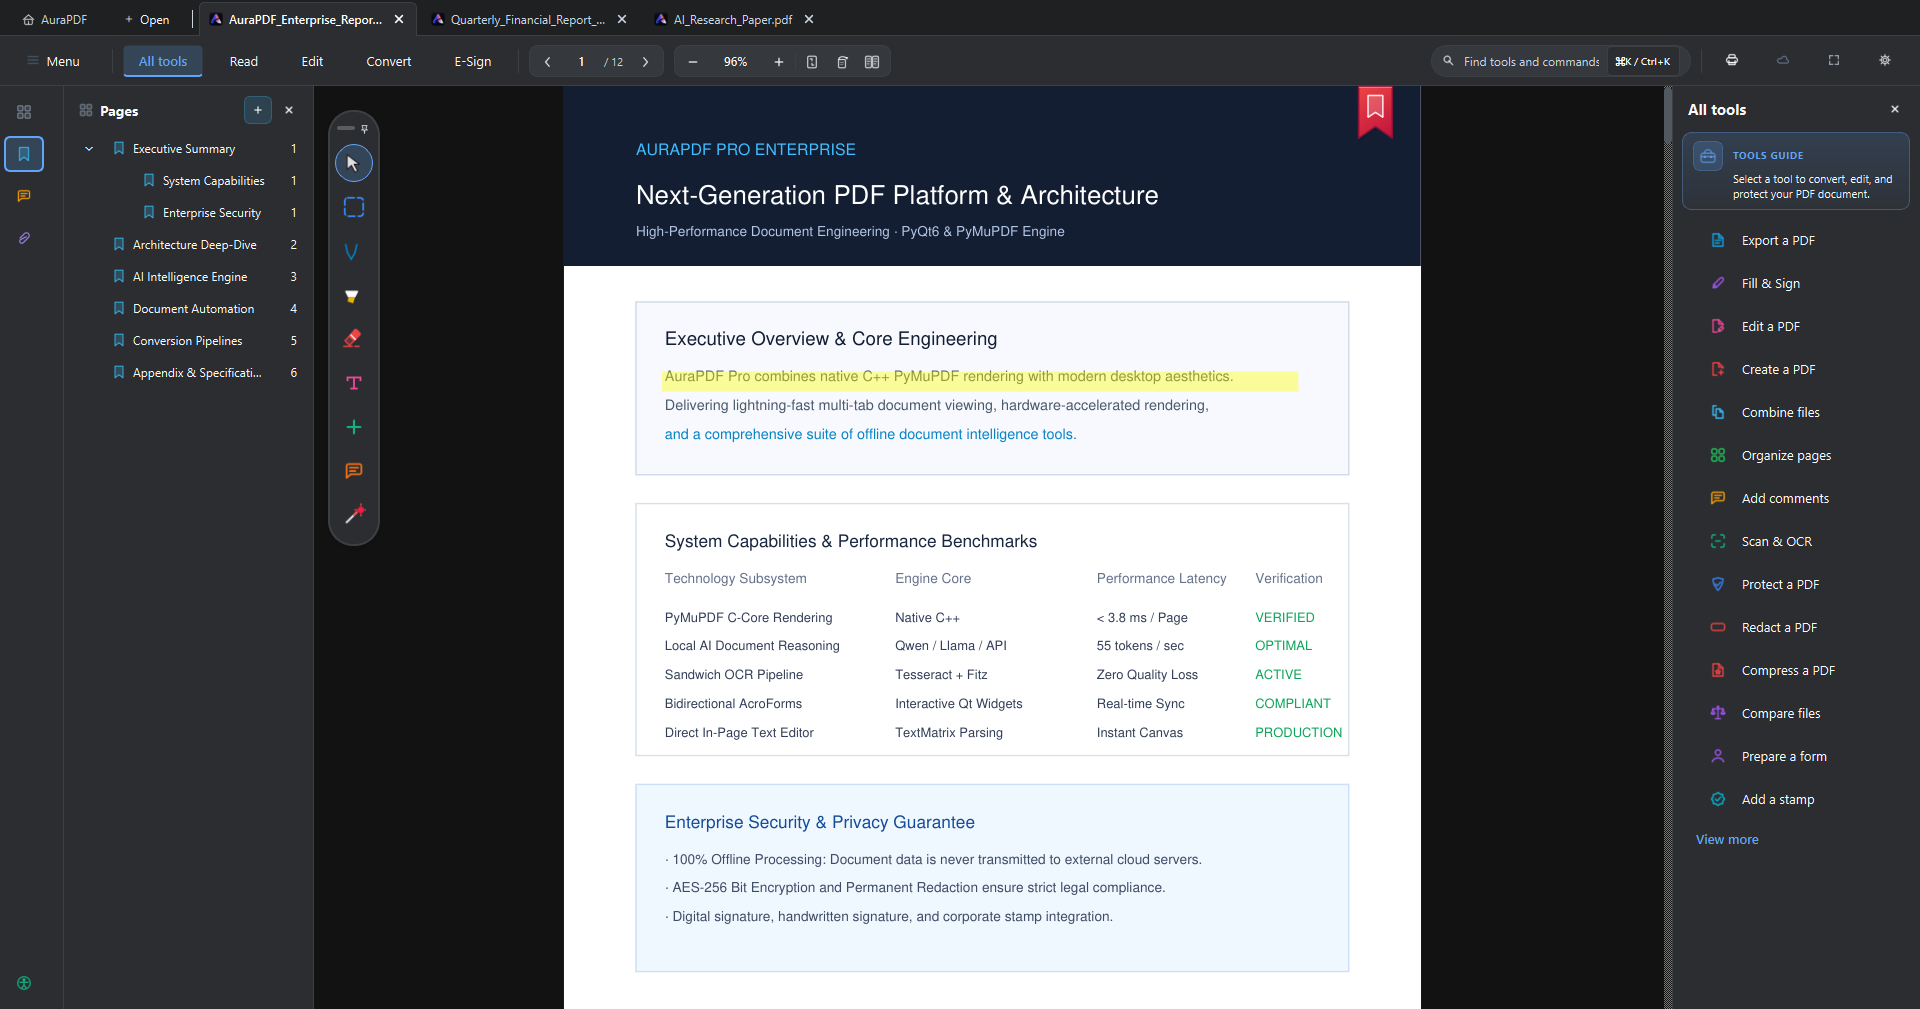
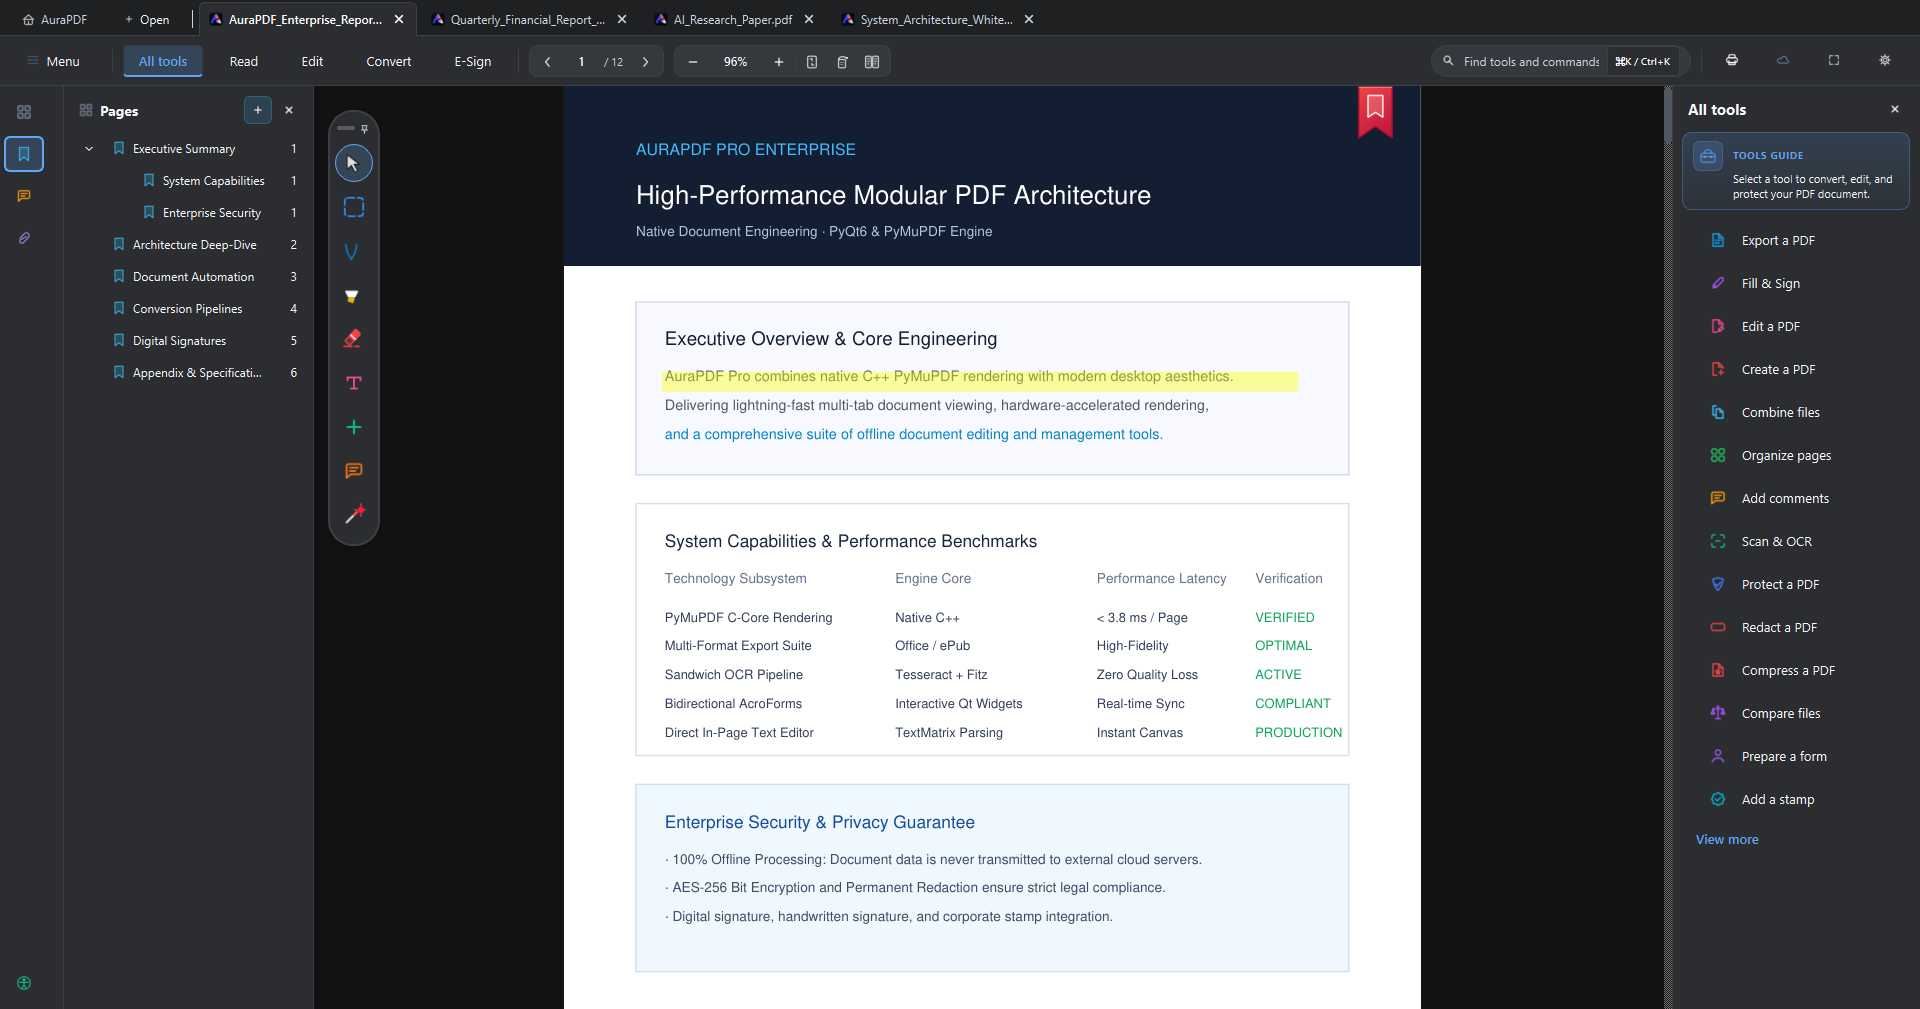
docs(readme): remove ai references, align features with current app, and update english screenshots

diff --git a/README.md b/README.md
@@ -5,8 +5,8 @@
 <h1 align="center">AuraPDF Pro</h1>
 
 <p align="center">
-  <strong>Advanced, High-Performance, and Offline AI-Powered Desktop PDF Platform</strong><br>
-  Built on Python 3, PyQt6, and the native C++ PyMuPDF engine. Designed for mission-critical PDF reading, in-place content editing, visual page organization, and local document intelligence.
+  <strong>High-Performance Desktop PDF Platform</strong><br>
+  Engineered with Python 3, PyQt6, and the native C++ PyMuPDF rendering engine. Designed for high-speed document viewing, direct in-page text editing, visual page organization, digital signatures, AcroForms, and format conversion.
 </p>
 
 <p align="center">
@@ -34,9 +34,8 @@
   - [3. Visual Page Organization & Manipulation](#3-visual-page-organization--manipulation)
   - [4. Comprehensive Conversion & PDF Toolbox](#4-comprehensive-conversion--pdf-toolbox)
   - [5. Direct In-Page Content Editing & Annotations](#5-direct-in-page-content-editing--annotations)
-  - [6. Aura AI - Offline Document Intelligence](#6-aura-ai---offline-document-intelligence)
-  - [7. Digital Signatures, Stamps, and AcroForms](#7-digital-signatures-stamps-and-acroforms)
-  - [8. Modern Theme Engine & High-DPI Aesthetics](#8-modern-theme-engine--high-dpi-aesthetics)
+  - [6. Digital Signatures, Stamps, and AcroForms](#6-digital-signatures-stamps-and-acroforms)
+  - [7. Modern Theme Engine & High-DPI Aesthetics](#7-modern-theme-engine--high-dpi-aesthetics)
 - [System Requirements](#system-requirements)
 - [Installation & Getting Started](#installation--getting-started)
 - [Building the Windows Installer (.exe)](#building-the-windows-installer-exe)
@@ -49,9 +48,9 @@
 
 ## Overview
 
-**AuraPDF Pro** is a modern desktop PDF workstation engineered to meet both everyday productivity demands and enterprise document workflows.
+**AuraPDF Pro** is a modern desktop PDF workstation built to deliver high performance, offline privacy, and an Adobe Acrobat-grade feature set.
 
-By combining the native C++ rasterization performance of PyMuPDF with PyQt6's responsive graphics architecture, AuraPDF Pro provides fluid 60+ FPS navigation across multi-thousand-page documents, near-zero memory overhead, 100% offline document analysis, in-place text editing, searchable sandwich OCR, and a comprehensive suite of Adobe Acrobat-class utility tools.
+By utilizing PyMuPDF's low-level C++ rendering pipeline combined with PyQt6's responsive UI architecture, AuraPDF Pro provides smooth 60+ FPS navigation across large documents, minimal memory usage, in-place content editing, searchable sandwich OCR, interactive form filling, and a comprehensive suite of page management and conversion tools.
 
 ---
 
@@ -63,13 +62,13 @@ By combining the native C++ rasterization performance of PyMuPDF with PyQt6's re
   <img src="docs/screenshots/01_hero_reader_dark.png" alt="AuraPDF Pro Reading Experience" width="94%" style="border-radius: 8px;" />
 </p>
 
-* **Multi-Tab Architecture:** Manage multiple PDF files simultaneously in detachable, draggable, and restorable tabs (`Ctrl+W`, `Ctrl+Shift+T`).
-* **Hierarchical Table of Contents (TOC):** Expandable tree navigation allowing instantaneous jumping between chapters, sections, and nested headings.
-* **Floating Quick Tools Capsule:** Context-aware, draggable floating tool palette placed beside your cursor for quick highlighter, pen, eraser, and annotation selection.
+* **Multi-Tab Architecture:** Manage multiple PDF documents simultaneously in detached, draggable, and restorable tabs (`Ctrl+W`, `Ctrl+Shift+T`).
+* **Hierarchical Table of Contents (TOC):** Interactive tree navigation enabling instant jumping between document sections and nested headings.
+* **Floating Quick Tools Capsule:** Context-aware, draggable floating tool palette positioned beside your cursor for quick highlighter, pen, eraser, and annotation selection.
 * **Reading & Color Modes:**
   * **Day Mode:** Native, color-accurate PDF rendering.
-  * **Hardware-Accelerated Dark Mode:** Low-light inverted C-level palette preserving vector crispness while minimizing eye strain.
-  * **Book (Sepia) Mode:** Warm paper hue tailored for extended reading sessions.
+  * **Hardware-Accelerated Dark Mode:** Inverted palette preserving vector clarity while minimizing eye fatigue.
+  * **Book (Sepia) Mode:** Warm paper hue designed for extended reading sessions.
 * **Smart Navigation:** Fit-to-width (`Ctrl+2`), fit-to-height (`Ctrl+0`), smooth fractional zoom (`Ctrl++` / `Ctrl+-`), and browser-style view history (`Alt+Left Arrow`, `Alt+Right Arrow`).
 
 ---
@@ -80,10 +79,10 @@ By combining the native C++ rasterization performance of PyMuPDF with PyQt6's re
   <img src="docs/screenshots/02_home_dashboard.png" alt="AuraPDF Pro Home Dashboard" width="94%" style="border-radius: 8px;" />
 </p>
 
-* **Instant Document Starters:** Launch fresh canvas files with one click, including *Blank Document*, *Lined Notes*, *Grid Paper*, *Cornell Notes*, and *Dot Grid*.
-* **Enriched Recent Files Hub:** Track recent files with real-time metadata including page count, file size, last modified timestamp, and path.
-* **Favorites System:** Pin frequently referenced documents for instant single-click access.
-* **Quick Action Tiles:** Direct access to Organize Pages, Annotate, Prepare Form, Edit Content, and Secure PDF.
+* **Document Starter Hub:** Launch new document canvases with one click, including *Blank Document*, *Lined Notes*, *Grid Paper*, *Cornell Notes*, and *Dot Grid*.
+* **Enriched Recent Files:** Track recent files with real-time metadata including page count, file size, last modified timestamp, and location.
+* **Favorites System:** Pin frequently referenced documents for immediate single-click access.
+* **Quick Action Tiles:** Direct access to Organize Pages, Annotate, Prepare Form, Edit Content, and Protect PDF.
 
 ---
 
@@ -93,13 +92,13 @@ By combining the native C++ rasterization performance of PyMuPDF with PyQt6's re
   <img src="docs/screenshots/03_organize_pages.png" alt="AuraPDF Pro Page Organizer" width="94%" style="border-radius: 8px;" />
 </p>
 
-* **Full-Screen Grid View:** High-resolution page thumbnail grid rendering entire documents simultaneously.
-* **Drag-and-Drop Reordering:** Reorganize page sequences dynamically with visual drop indicators.
+* **Full-Screen Grid View:** High-resolution page thumbnail grid displaying entire documents at a glance.
+* **Drag-and-Drop Reordering:** Rearrange page order dynamically with intuitive visual drop indicators.
 * **Comprehensive Page Actions:**
   * Rotate clockwise / counter-clockwise (90° CW / CCW).
   * Bulk selection and deletion of unwanted pages.
   * Extract selected pages into standalone PDF documents.
-  * Insert external PDF files or blank pages anywhere in the sequence.
+  * Insert external PDF files or blank pages into any position.
   * Duplicate selected pages.
 
 ---
@@ -117,8 +116,8 @@ By combining the native C++ rasterization performance of PyMuPDF with PyQt6's re
   * **E-Book (`.epub`):** Reflowable format conversion optimized for e-readers.
   * **Image Export (`.png`, `.jpg`):** Export full pages or batch-extract embedded graphics.
   * **Web & Text:** HTML web pages, Rich Text Format (`.rtf`), Plain Text (`.txt`), and PostScript (`.eps`).
-* **PDF Merge & Split:** Combine dozens of distinct files into one organized document or split by customized page ranges.
-* **Sandwich OCR Engine:** Generate an invisible, coordinate-aligned searchable text layer behind scanned documents without degrading original visual fidelity.
+* **PDF Merge & Split:** Combine multiple distinct files into one organized document or split by customized page ranges.
+* **Sandwich OCR Engine:** Generate an invisible, coordinate-aligned searchable text layer behind scanned documents without degrading original visual quality.
 * **PDF Compression:** Optimize image DPI and strip duplicate streams to reduce file sizes by up to 80%.
 
 ---
@@ -129,29 +128,15 @@ By combining the native C++ rasterization performance of PyMuPDF with PyQt6's re
   <img src="docs/screenshots/05_direct_edit_mode.png" alt="AuraPDF Pro Direct Text Editor" width="94%" style="border-radius: 8px;" />
 </p>
 
-* **In-Place Text Editor:** Click directly into existing PDF text blocks to edit words, sentences, typography, font sizes, and text alignments on the canvas.
+* **In-Place Text Editor:** Click directly into existing PDF text blocks to edit words, sentences, typography, font sizes, and alignments on the canvas.
 * **Standard PDF Markups:** Highlight, underline, strikeout, and wavy line annotations.
 * **Vector Drawing Tools:** Pressure-sensitive pen, freehand highlighter, arrows, lines, rectangles, and ellipses.
 * **Comments & Sticky Notes:** Interactive callout boxes, searchable annotations list, and threaded replies.
-* **Permanent Redaction:** Irreversibly black out confidential data, IDs, credit cards, or sensitive legal clauses directly from the underlying PDF stream.
+* **Permanent Redaction:** Irreversibly black out confidential data, IDs, credit cards, or sensitive clauses directly from the underlying PDF stream.
 
 ---
 
-### 6. Aura AI - Offline Document Intelligence
-
-<p align="center">
-  <img src="docs/screenshots/06_ai_assistant.png" alt="Aura AI Document Assistant" width="88%" style="border-radius: 8px;" />
-</p>
-
-* **100% Offline & Private:** Documents are analyzed strictly locally on your machine. Confidential corporate and legal data is never transmitted to external cloud servers.
-* **Executive Summaries:** Ingest hundreds of pages in seconds to produce structural overviews, key findings, and section breakdowns.
-* **Risk & Obligation Detection:** Detect binding clauses, penal liabilities, deadlines, financial commitments, and compliance flags.
-* **Interactive Document Q&A:** Chat directly with your document in natural language and receive answers with precise page references.
-* **Optional Cloud API Integration:** Seamlessly connect Google Gemini or OpenAI API keys when advanced multi-modal reasoning is desired.
-
----
-
-### 7. Digital Signatures, Stamps, and AcroForms
+### 6. Digital Signatures, Stamps, and AcroForms
 
 * **Signature Suite:**
   * Draw signatures with mouse or stylus.
@@ -162,7 +147,7 @@ By combining the native C++ rasterization performance of PyMuPDF with PyQt6's re
 
 ---
 
-### 8. Modern Theme Engine & High-DPI Aesthetics
+### 7. Modern Theme Engine & High-DPI Aesthetics
 
 AuraPDF Pro includes 8 professionally calibrated theme palettes:
 
@@ -177,7 +162,7 @@ AuraPDF Pro includes 8 professionally calibrated theme palettes:
 | **Crimson** | High-contrast dark palette with energetic crimson red |
 | **Vice City** | Neon cyberpunk synthwave aesthetic |
 
-*All icons are drawn vectorially via `AuraIconFactory` using `QPainterPath`, ensuring pixel-perfect sharpness across 4K displays and high-DPI scaling.*
+*All icons are drawn vectorially via `AuraIconFactory` using `QPainterPath`, ensuring sharpness across 4K displays and high-DPI scaling.*
 
 ---
 
@@ -272,10 +257,10 @@ AuraPDF/
 ├── docs/
 │   └── screenshots/            # High-resolution documentation screenshots
 ├── src/
-│   ├── core/                  # Core engines (i18n, AI threads, updater, shortcut manager)
+│   ├── core/                  # Core engines (i18n, updater, shortcut manager)
 │   ├── document/              # Tab document architecture, render queues, media items
 │   └── ui/                    # Graphical user interface layer
-│       ├── dialogs/           # Toolbox dialogs, AI assistant, OCR, signatures, settings
+│       ├── dialogs/           # Toolbox dialogs, OCR, signatures, settings
 │       ├── popups/            # Floating HUDs, tool settings, stamp palettes
 │       ├── modern_views.py    # Acrobat-style modern tab bar, header, drawers, workspaces
 │       ├── icons.py           # Vector QPainterPath AuraIconFactory engine
@@ -296,7 +281,7 @@ AuraPDF/
 
 AuraPDF is maintained across two active branches:
 * **`aurapdf-basic-windows`:** Lightweight edition focusing on core PDF reading, annotations, page management, and AcroForms.
-* **`aurapdf_pro_windows` (Active Branch):** Professional edition featuring local AI document intelligence, digital signatures, sandwich OCR, and the complete toolbox suite.
+* **`aurapdf_pro_windows` (Active Branch):** Professional edition featuring digital signatures, sandwich OCR, direct text editing, and the complete toolbox suite.
 
 All contributions adhere to the architecture principles, strict i18n parity, and Conventional Commits guidelines defined in [AGENTS.md](AGENTS.md).
 
